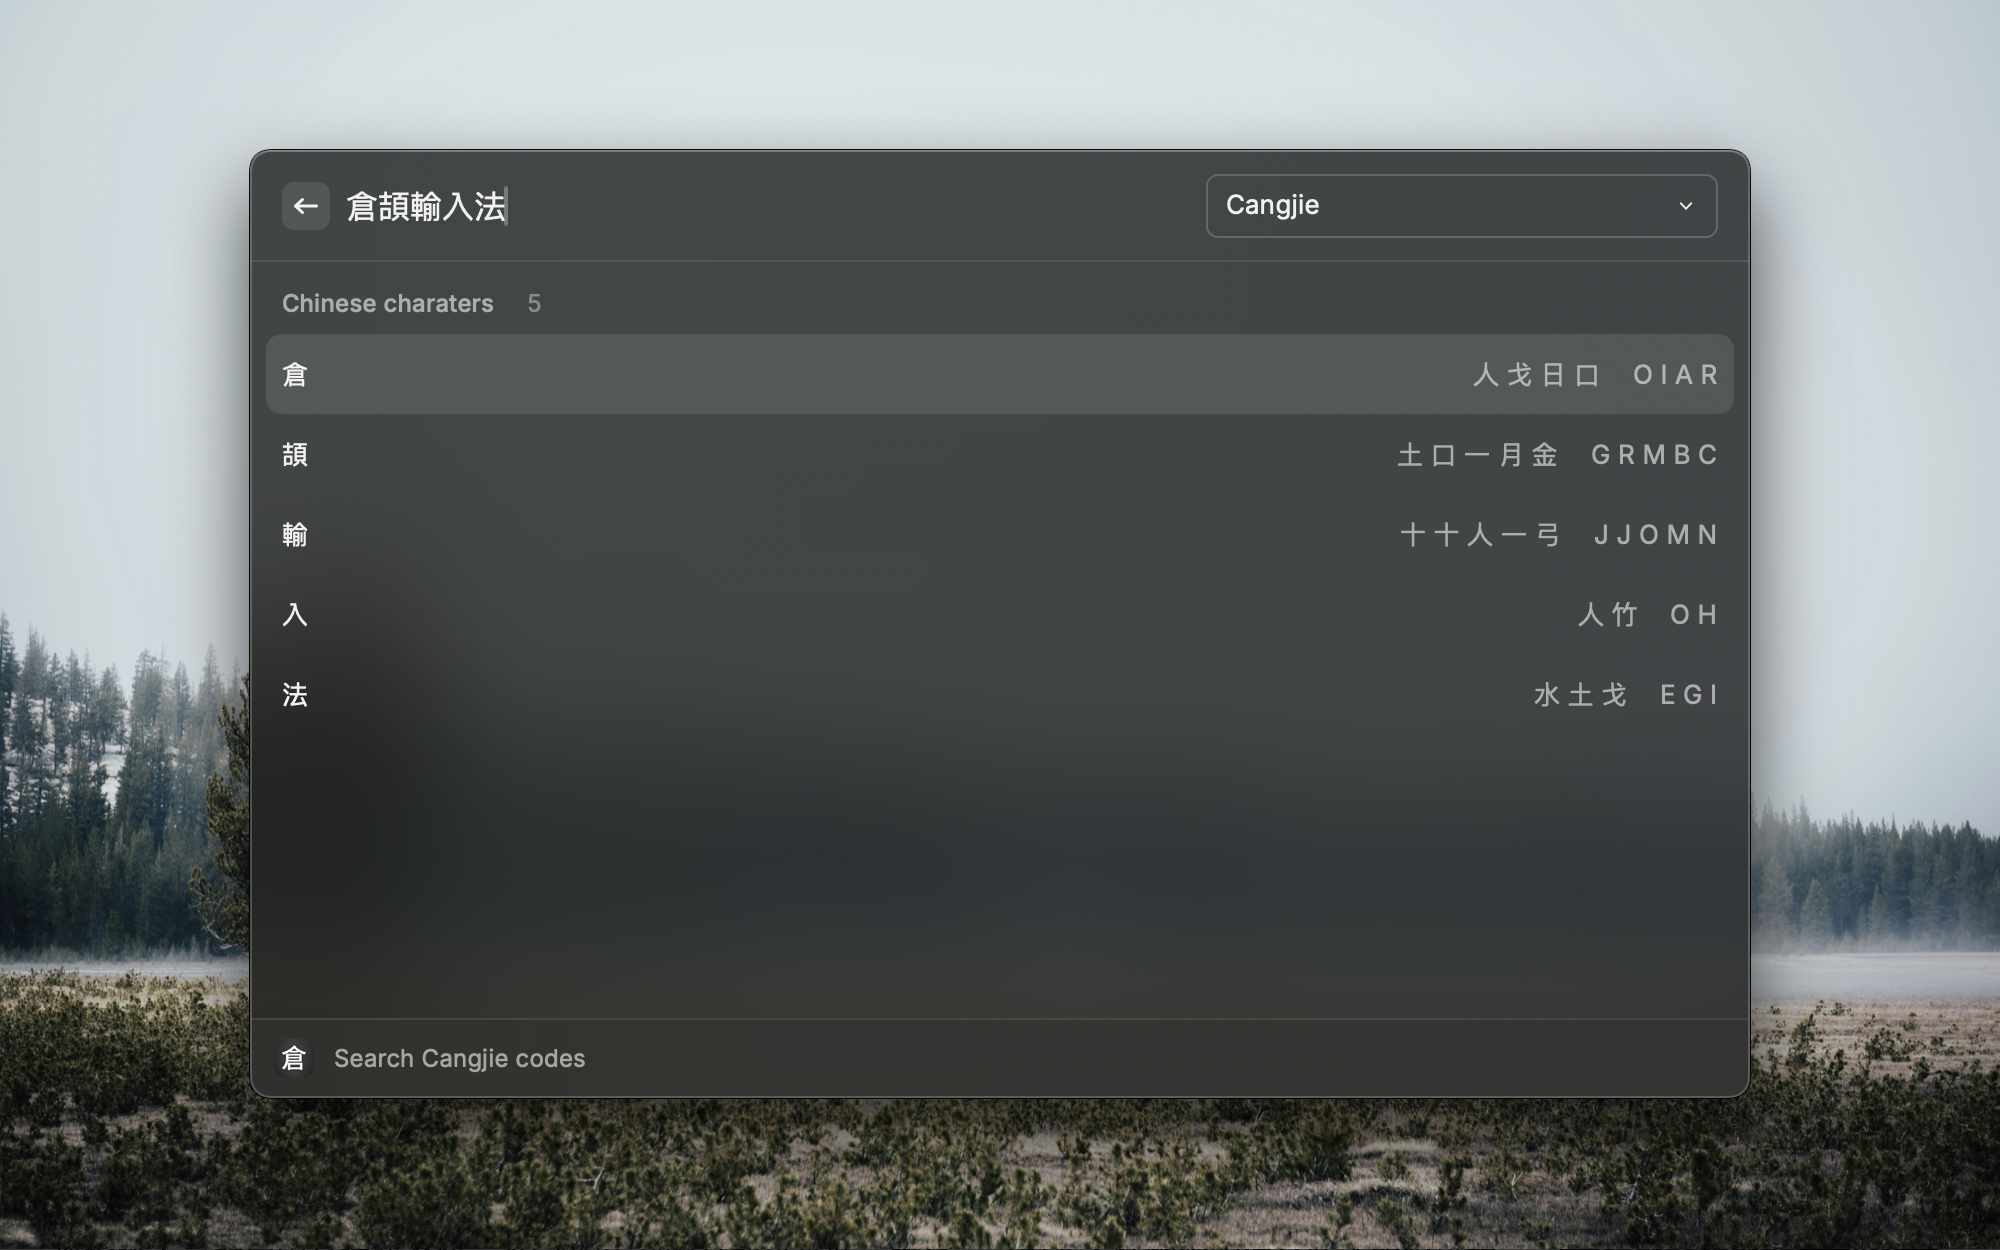
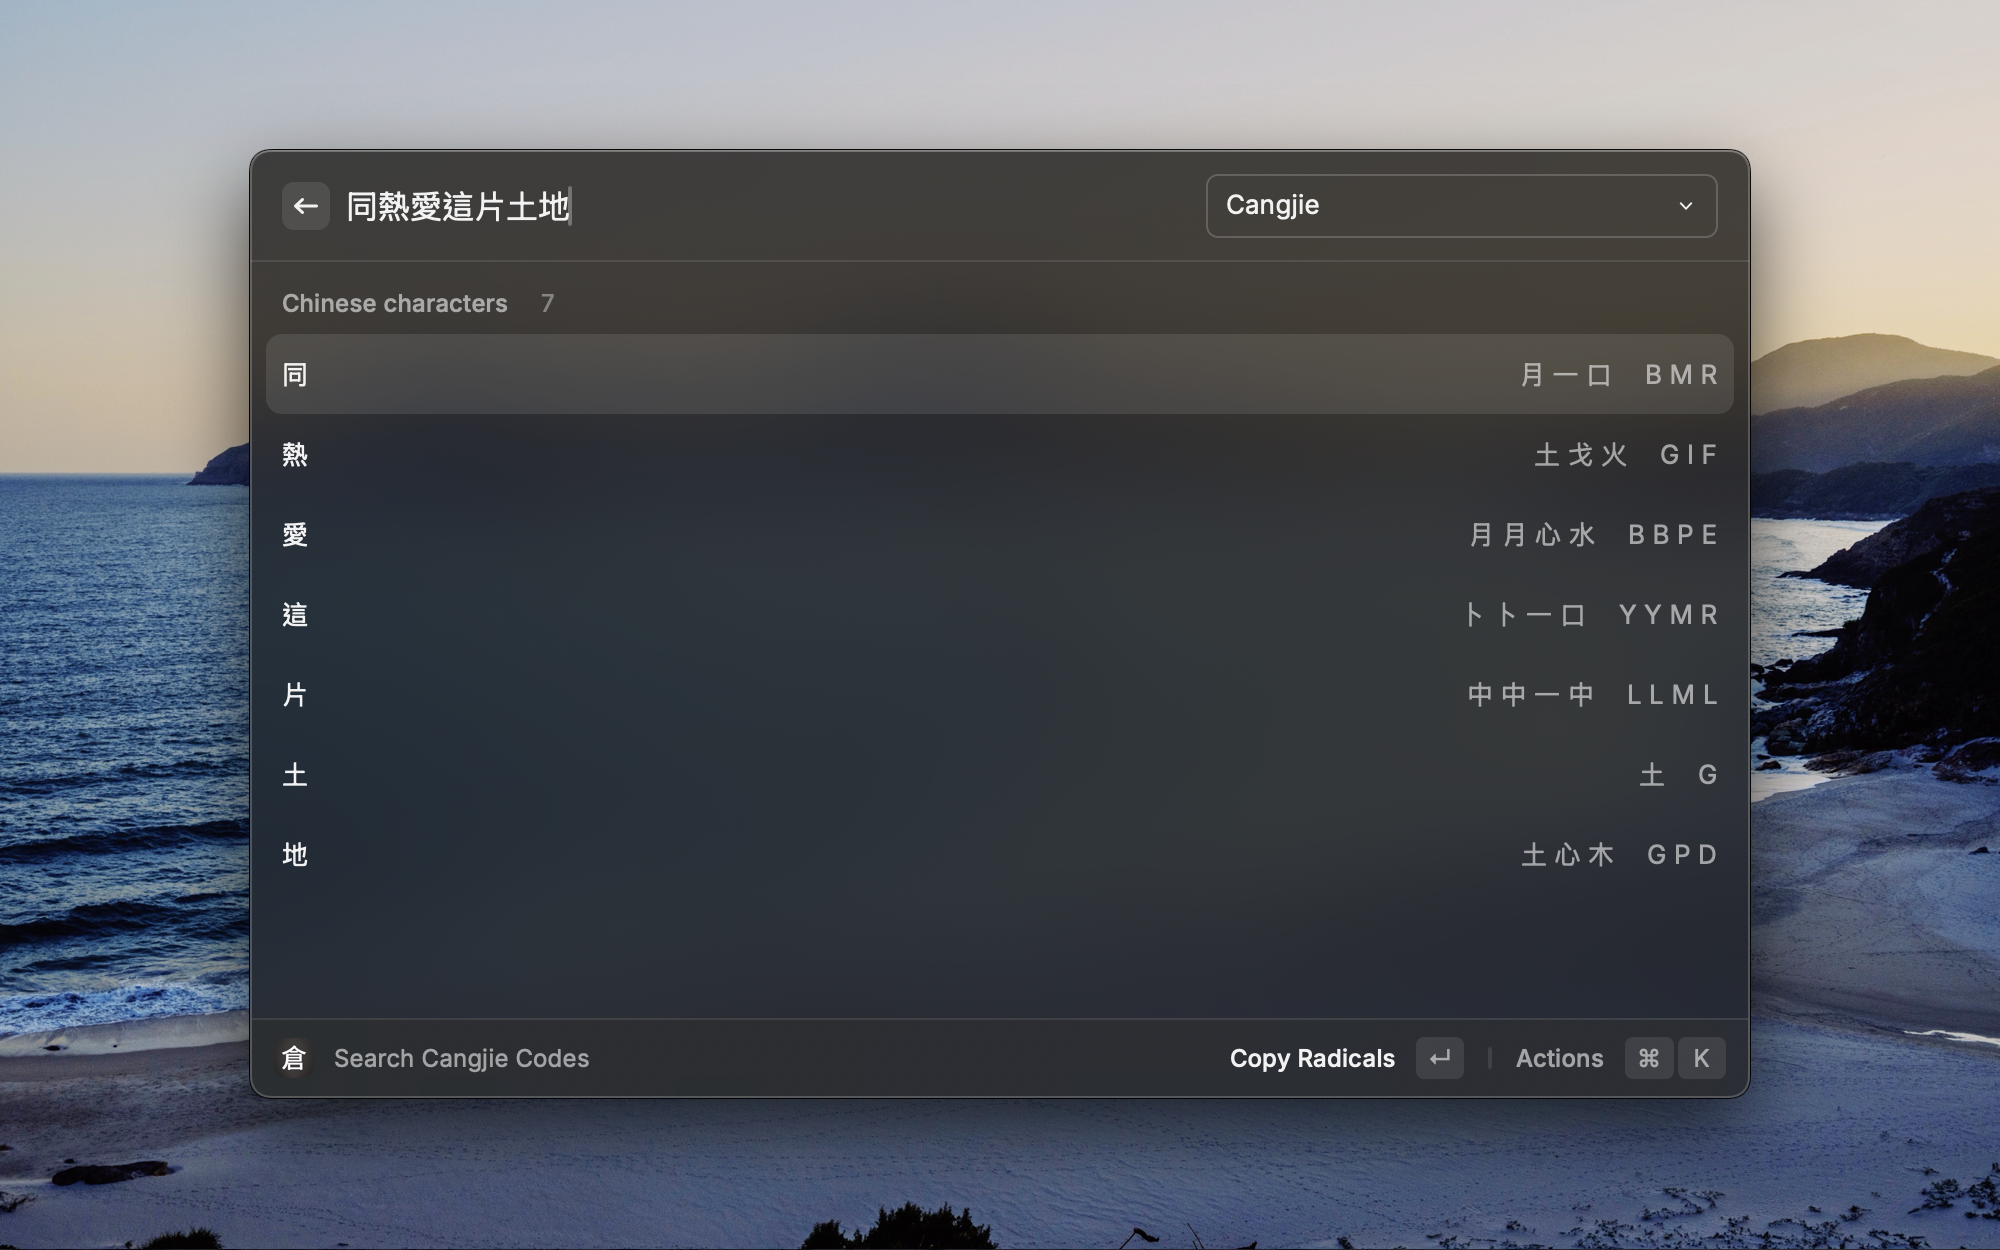
Fix typo

diff --git a/src/cangjie.tsx b/src/cangjie.tsx
@@ -1,4 +1,5 @@
-import { List, getSelectedText } from "@raycast/api";
+import { Action, ActionPanel, List, getSelectedText } from "@raycast/api";
+import { showFailureToast } from "@raycast/utils";
 import { useState, useEffect } from "react";
 import cangjieData from "./cangjie5_all.json";
 
@@ -37,7 +38,7 @@ const cangjieToChinese: { [key: string]: string } = {
 };
 
 interface SearchResult {
-  charater: string;
+  character: string;
   code: string;
 }
 
@@ -56,14 +57,13 @@ function SearchListItem({ searchResult, inputMethod }: { searchResult: SearchRes
     .toLowerCase()
     .split("")
     .map((char) => cangjieToChinese[char] || char)
-    .join(" ");
 
   return (
     <List.Item
-      title={searchResult.charater}
+      title={searchResult.character}
       accessories={[
         {
-          text: chineseCode,
+          text: chineseCode.join(" "),
           tooltip: "Chinese radicals",
         },
         {
@@ -71,6 +71,12 @@ function SearchListItem({ searchResult, inputMethod }: { searchResult: SearchRes
           tooltip: "English letters",
         },
       ]}
+      actions={
+        <ActionPanel>
+          <Action.CopyToClipboard title="Copy Radicals" content={chineseCode.join("")} />
+          <Action.CopyToClipboard title="Copy Keys" content={processedCode} />
+        </ActionPanel>
+      }
     />
   );
 }
@@ -88,6 +94,7 @@ export default function Command() {
           setSearchText(selectedText);
         }
       } catch (error) {
+        showFailureToast(error, { title: "Could not get selected text" });
         setSearchText("");
       } finally {
         setIsLoading(false);
@@ -101,7 +108,7 @@ export default function Command() {
       .split("")
       .filter((char) => Object.prototype.hasOwnProperty.call(data, char))
       .map((char) => ({
-        charater: char,
+        character: char,
         code: data[char],
       }));
   };
@@ -111,6 +118,7 @@ export default function Command() {
   return (
     <List
       isLoading={isLoading}
+      searchText={searchText}
       onSearchTextChange={setSearchText}
       searchBarPlaceholder="Enter Chinese characters..."
       searchBarAccessory={
@@ -125,7 +133,7 @@ export default function Command() {
       }
     >
       {results.length > 0 ? (
-        <List.Section title="Chinese charaters" subtitle={String(results.length)}>
+        <List.Section title="Chinese characters" subtitle={String(results.length)}>
           {results.map((result, index) => (
             <SearchListItem key={index} searchResult={result} inputMethod={inputMethod} />
           ))}

diff --git a/README.md b/README.md
@@ -1,3 +1,3 @@
-# Cangjie
+# Cangjie Dictionary
 
-Cangjie input method dictionary
+Look up Chinese characters for Cangjie and Sucheng codes, two major Chinese input methods. Supports instant search from selected text and provides both English letters and Chinese radicals in the actions panel.

diff --git a/CHANGELOG.md b/CHANGELOG.md
@@ -1,4 +1,4 @@
-# Cangjie Changelog
+# Cangjie Dictionary Changelog
 
 ## [Initial Version] - {PR_MERGE_DATE}
 
